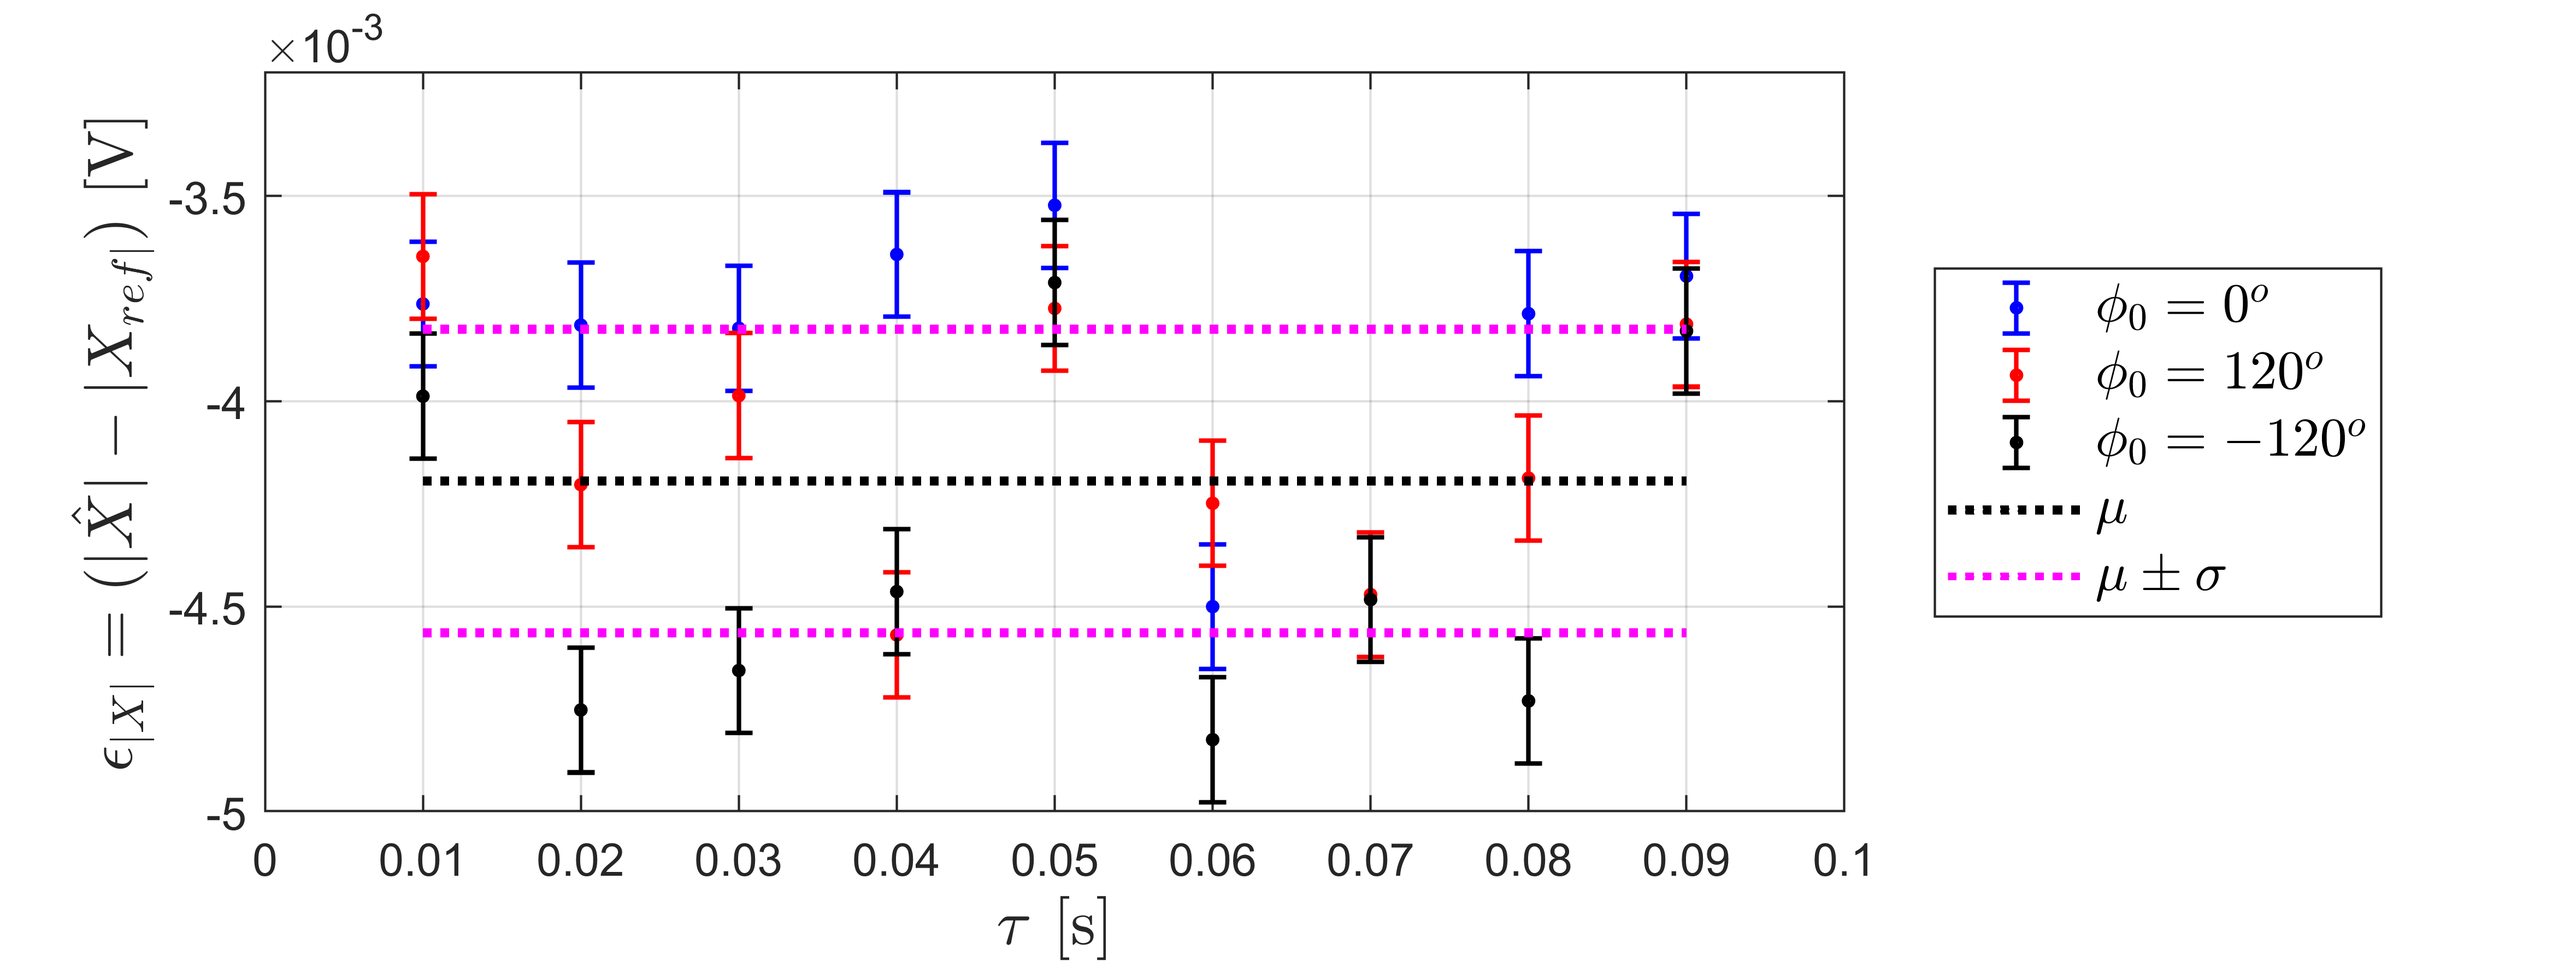
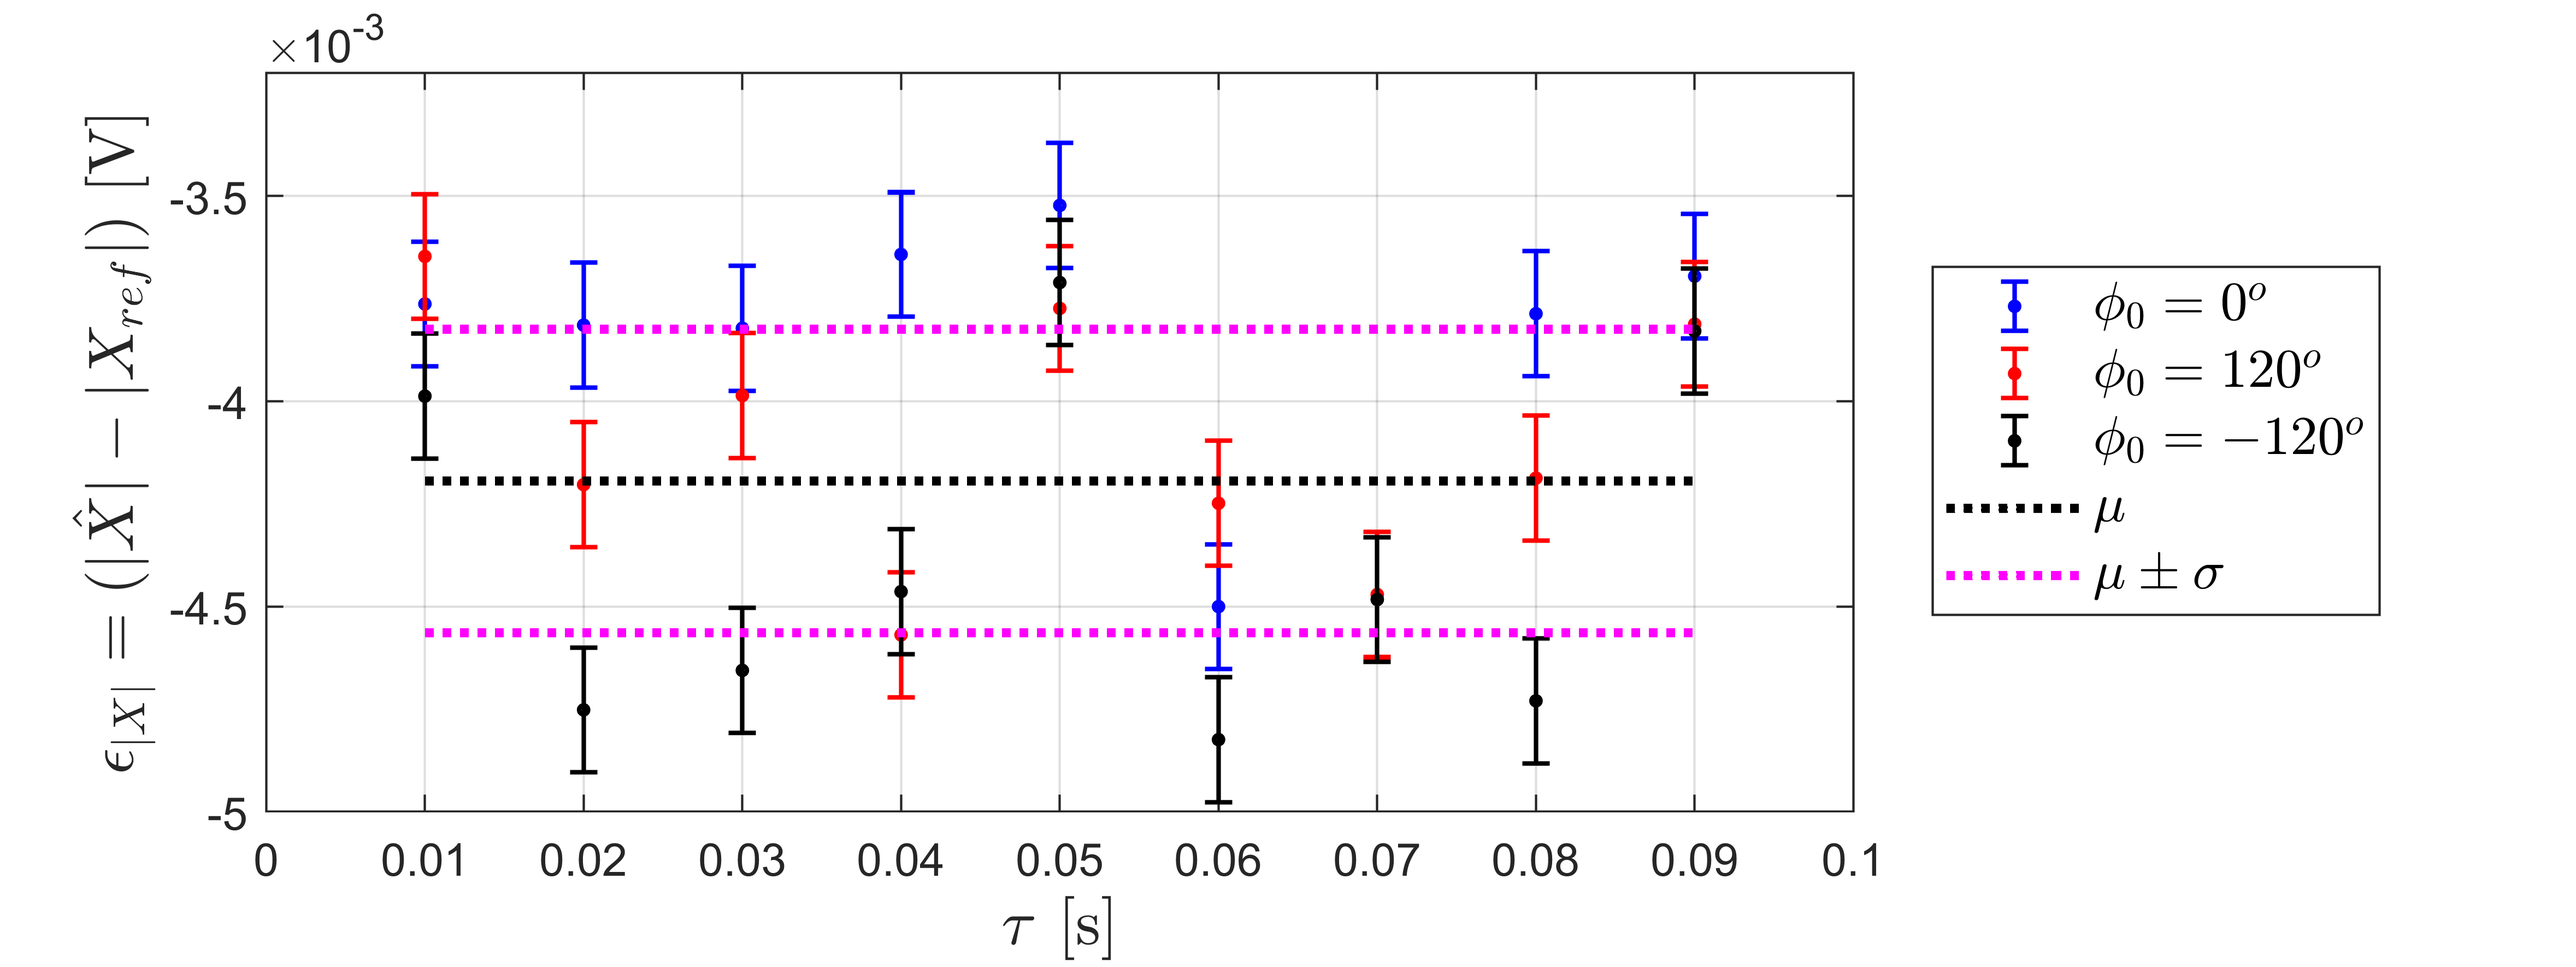
ajustes de formatacao nos graficos

diff --git a/Cap4_LM/medicoes/graficos_SM_Fase.m b/Cap4_LM/medicoes/graficos_SM_Fase.m
@@ -46,13 +46,16 @@ f.Position = [293 478.6000 754.4000 283.2000];
     ylb = ylabel('$\epsilon_{\phi_0} = (\hat{\phi_0} - \phi_0)$ [graus]','Interpreter','latex')
     ylb.FontSize = 14;
 
-figure(2)
-errorbar(tau_rel,diff(4,:),Um,'bo')
-hold on;
-errorbar(tau_rel,diff(5,:),Um,'ro')
-errorbar(tau_rel,diff(6,:),Um,'ko')
-legend(casos(4:6))
-grid on;
-xlabel('$\tau$ relativo a $T$','Interpreter','latex')
-xlim([0 1])
-ylabel('$\epsilon_{\phi} = (\phi_{nom} - \phi_{P})$ [graus]','Interpreter','latex')
+f.PaperPositionMode = 'auto';
+print(f,'SM_Fase','-dpng','-r600')    
+%     
+% figure(2)
+% errorbar(tau_rel,diff(4,:),Um,'bo')
+% hold on;
+% errorbar(tau_rel,diff(5,:),Um,'ro')
+% errorbar(tau_rel,diff(6,:),Um,'ko')
+% legend(casos(4:6))
+% grid on;
+% xlabel('$\tau$ relativo a $T$','Interpreter','latex')
+% xlim([0 1])
+% ylabel('$\epsilon_{\phi} = (\phi_{nom} - \phi_{P})$ [graus]','Interpreter','latex')

diff --git a/Cap4_LM/medicoes/graficos_SF_Fase.m b/Cap4_LM/medicoes/graficos_SF_Fase.m
@@ -50,14 +50,14 @@ f.Position = [293 478.6000 754.4000 283.2000];
     xlim([0 .1]); %ylim([-1e-2 1e-2]);
     ylb = ylabel('$\epsilon_{\phi_0} = (\hat{\phi_0} - \phi_0)$ [graus]','Interpreter','latex')
     ylb.FontSize = 14;
-
-figure(2)
-errorbar(tau_rel,diff(4,:),Um,'bo')
-hold on;
-errorbar(tau_rel,diff(5,:),Um,'ro')
-errorbar(tau_rel,diff(6,:),Um,'ko')
-legend(casos(4:6))
-grid on;
-xlabel('$\tau$ relativo a $T$','Interpreter','latex')
-xlim([0 1])
-ylabel('$\epsilon_{\phi} = (\phi_{nom} - \phi_{P})$ [graus]','Interpreter','latex')
+% 
+% figure(2)
+% errorbar(tau_rel,diff(4,:),Um,'bo')
+% hold on;
+% errorbar(tau_rel,diff(5,:),Um,'ro')
+% errorbar(tau_rel,diff(6,:),Um,'ko')
+% legend(casos(4:6))
+% grid on;
+% xlabel('$\tau$ relativo a $T$','Interpreter','latex')
+% xlim([0 1])
+% ylabel('$\epsilon_{\phi} = (\phi_{nom} - \phi_{P})$ [graus]','Interpreter','latex')

diff --git a/Cap4_LM/medicoes/graficos_SM_Mag.m b/Cap4_LM/medicoes/graficos_SM_Mag.m
@@ -45,7 +45,7 @@ grid on;
 xlb = xlabel('$\tau$ [s]','Interpreter','latex')
 xlim([0 .1])
     xlb.FontSize = 14;
-ylb = ylabel('$\epsilon_{|X|} = (|\hat{X}| - |X_{ref|})$ [V]','Interpreter','latex')
+ylb = ylabel('$\epsilon_{|X|} = (|\hat{X}| - |X_{ref}|)$ [V]','Interpreter','latex')
 ylb.FontSize = 14;
 
 lg = legend('$\phi_0 = 0^o$',"$\mu$",'$\mu \pm \sigma$');
@@ -53,3 +53,6 @@ lg = legend('$\phi_0 = 0^o$',"$\mu$",'$\mu \pm \sigma$');
     lg.Location = 'eastoutside';
     lg.Orientation = 'vertical';
     lg.FontSize = 12;
+    
+f.PaperPositionMode = 'auto';
+print(f,'SM_Mag','-dpng','-r600')

diff --git a/Cap4_LM/medicoes/graficos_SF_Mag.m b/Cap4_LM/medicoes/graficos_SF_Mag.m
@@ -48,7 +48,7 @@ grid on;
 xlb = xlabel('$\tau$ [s]','Interpreter','latex')
 xlim([0 .1])
     xlb.FontSize = 14;
-ylb = ylabel('$\epsilon_{|X|} = (|\hat{X}| - |X_{ref|})$ [V]','Interpreter','latex')
+ylb = ylabel('$\epsilon_{|X|} = (|\hat{X}| - |X_{ref}|)$ [V]','Interpreter','latex')
 ylb.FontSize = 14;
 ylim([-5e-3 -3.2e-3])
 
@@ -57,3 +57,6 @@ lg = legend('$\phi_0 = 0^o$','$\phi_0 = 120^o$','$\phi_0 = -120^o$',"$\mu$",'$\m
     lg.Location = 'eastoutside';
     lg.Orientation = 'vertical';
     lg.FontSize = 12;
+    
+    f.PaperPositionMode = 'auto';
+print(f,'SF_Mag','-dpng','-r600')
